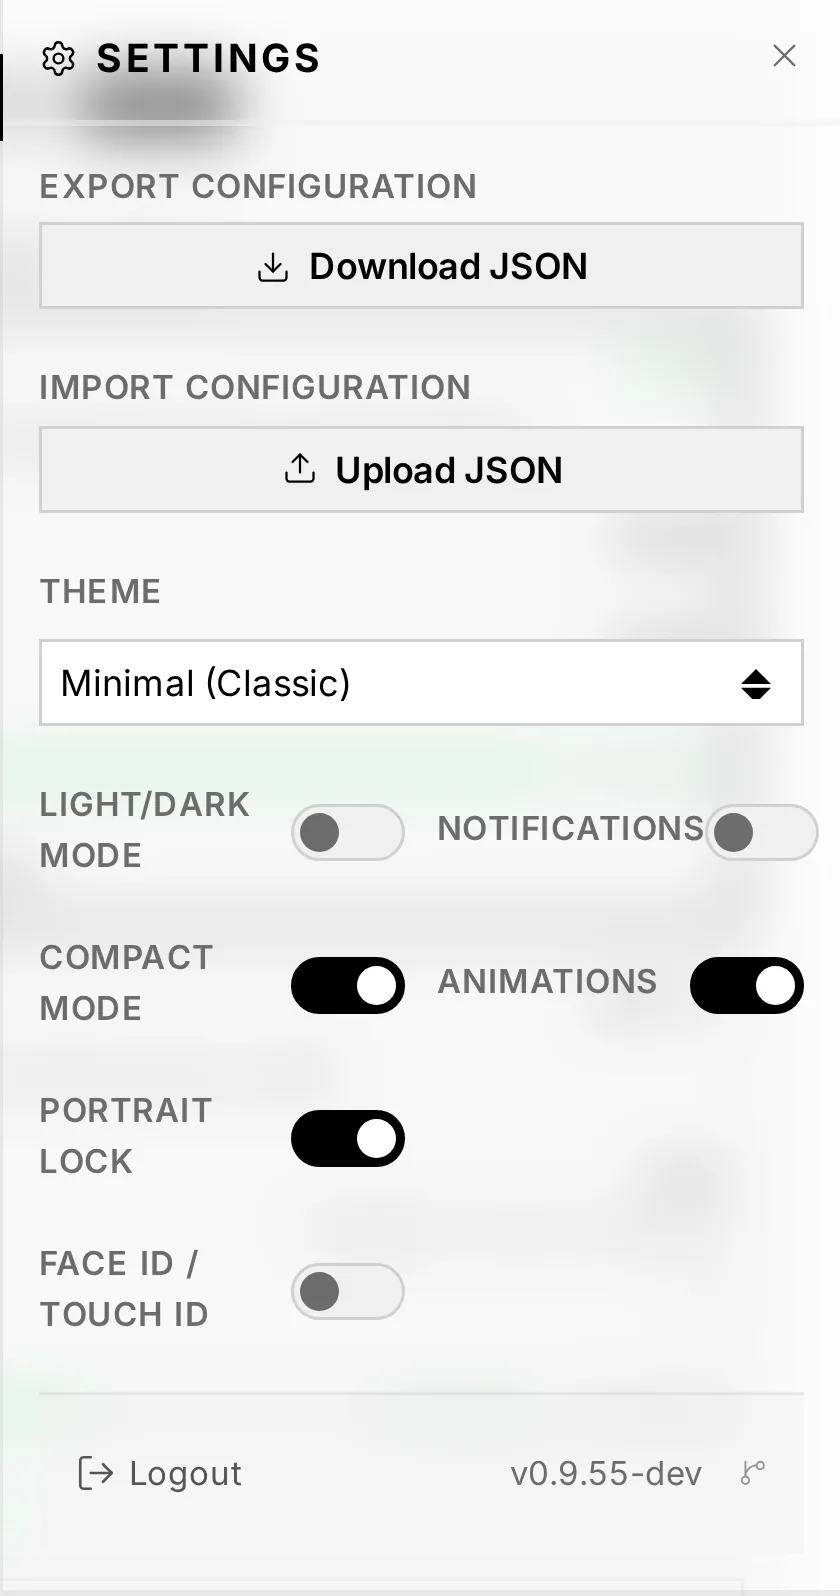
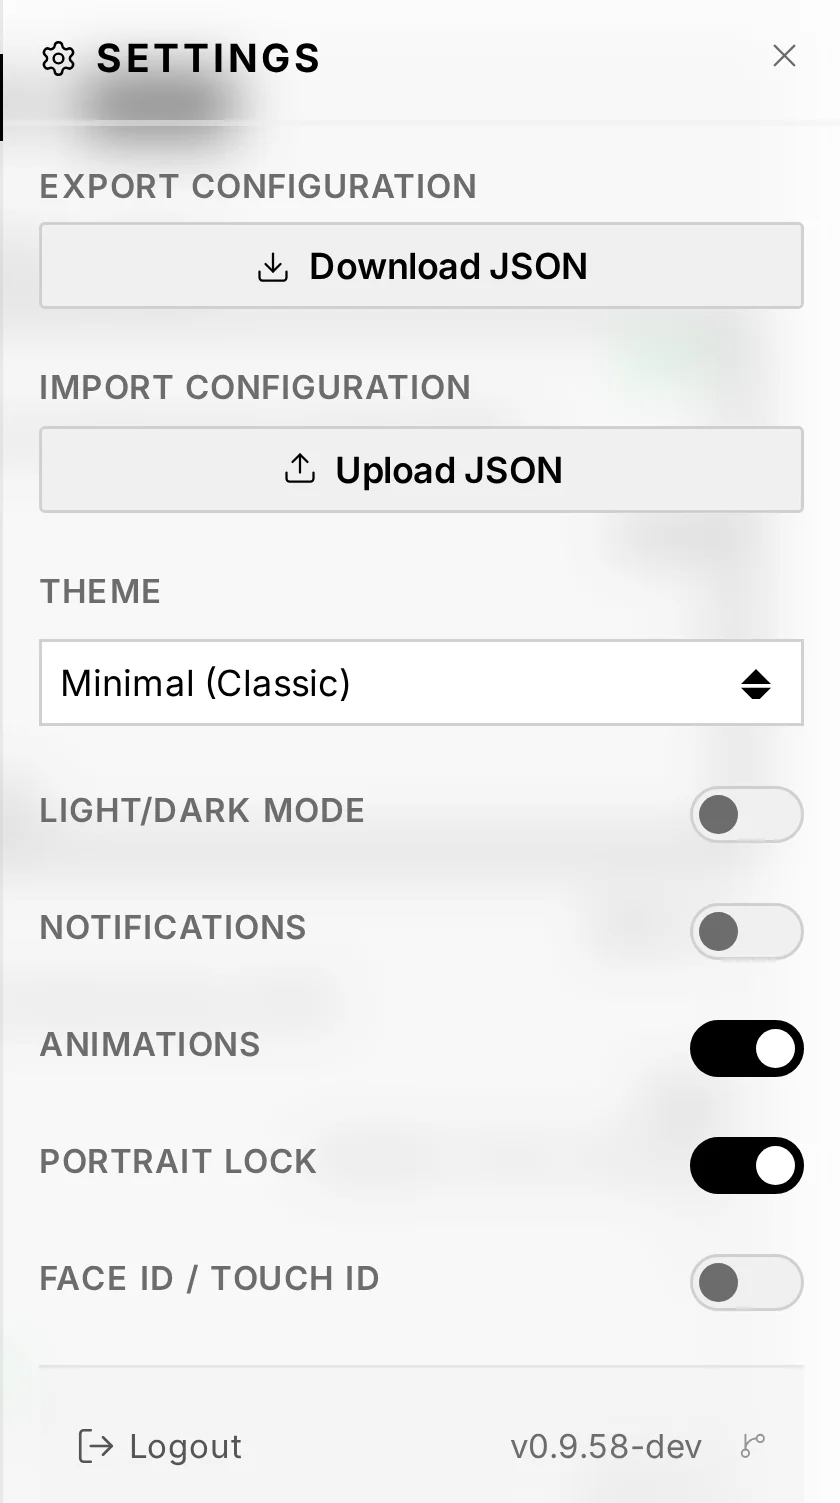
docs: record the removal of the compact-mode setting
CHANGELOG and RELEASE_NOTES for the flattening, including the sign-in page,
which is deliberately kept as it was rather than following the interface.

The Administration chapter stops offering a switch the drawer no longer holds,
and its picture was retaken at 375x812 @3x against a running box.

diff --git a/docs/manual/07-administration.html b/docs/manual/07-administration.html
@@ -90,15 +90,15 @@ sign-in screen, so the choice can be made before signing in (see
 <a href="03-first-run#2-sign-in--and-secure-your-account">3. First run</a>); the look itself is
 chosen here.</li>
 <li><strong>Notifications</strong> — subscribe this device to <strong>push notifications</strong> (see below).</li>
-<li><strong>Compact Mode</strong> — a denser layout. <strong>Animations</strong> — turns UI motion off
-(functional loading spinners keep animating so an operation never looks stuck).</li>
+<li><strong>Animations</strong> — turns UI motion off (functional loading spinners keep animating so
+an operation never looks stuck).</li>
 <li><strong>Portrait Lock</strong> — phones and tablets only; see
 <a href="04-listening#portrait-lock">4. Listening</a>.</li>
 <li><strong>Face ID / Touch ID</strong> — register this device as a <strong>passkey</strong> in one tap; each
 registered device appears as a chip you can remove individually. (These are the
 same credentials as the <em>Passkeys</em> button on your user card above.)</li>
 </ul>
-<img loading="lazy" src="images/ios-settings.webp" alt="The Settings panel: configuration export/import, theme, the display and notification toggles, portrait lock and Face ID / Touch ID" width="360">
+<img loading="lazy" src="images/ios-settings.webp" alt="The Settings panel: configuration export/import, theme, and one toggle per row — light/dark mode, notifications, animations, portrait lock and Face ID / Touch ID" width="360">
 <h3 id="push-notifications">Push notifications</h3>
 <p>With <strong>Notifications</strong> on, the box sends this device a system notification when
 something needs attention — even with the app closed:</p>

diff --git a/CHANGELOG.md b/CHANGELOG.md
@@ -9,6 +9,10 @@ and this landing) are documented here. Format based on
 
 ## [Unreleased]
 
+### Changed
+- **[ui] The Compact Mode switch is gone; the interface keeps the density it has always shown.** The switch was on from the very first launch and the only thing turning it off did was make everything larger — a second layout nobody asked for, carried through 31 rules and every screen of the interface. Those rules are now simply what the interface is: the spacing steps read 4/6/12/18/24 px and the type steps 12/13/14 px where three names were being substituted underneath. Nothing moves on screen, except in two places. The **settings drawer** gives each switch a full-width row — light/dark mode, notifications, animations, portrait lock and Face ID / Touch ID were paired two to a line, each label squeezed into half the width beside its switch. And a **service tile that starts, or a profile that becomes active**, no longer shifts its contents by a pixel as its border thickens: the second border pixel is taken out of the padding, as the processor tile beside it already did. The **sign-in page** is deliberately left untouched: it is the one screen the setting never reached, so it had been drawing the larger layout alone, and following the interface would have shrunk it by itself (its card 558 → 460 px on a computer, 536 → 445 px on a phone). It now states the steps it used to inherit, and is pixel-identical — checked over every element it holds, at both sizes. Verified the same way across ten tabs on a computer and a phone: no other difference.
+- **[manual] The Administration chapter stops offering a switch that no longer exists.** *Compact Mode* was listed among the settings and the drawer's picture showed it; the picture has been retaken and the list now describes what the drawer holds.
+
 ## [0.9.57] - 2026-09-19
 
 ### Changed

diff --git a/docs/manual/07-administration.md b/docs/manual/07-administration.md
@@ -47,15 +47,15 @@ The **gear** in the top bar opens the app-wide Settings panel:
   [3. First run](03-first-run.md#2-sign-in--and-secure-your-account)); the look itself is
   chosen here.
 - **Notifications** — subscribe this device to **push notifications** (see below).
-- **Compact Mode** — a denser layout. **Animations** — turns UI motion off
-  (functional loading spinners keep animating so an operation never looks stuck).
+- **Animations** — turns UI motion off (functional loading spinners keep animating so
+  an operation never looks stuck).
 - **Portrait Lock** — phones and tablets only; see
   [4. Listening](04-listening.md#portrait-lock).
 - **Face ID / Touch ID** — register this device as a **passkey** in one tap; each
   registered device appears as a chip you can remove individually. (These are the
   same credentials as the *Passkeys* button on your user card above.)
 
-<img src="images/ios-settings.webp" alt="The Settings panel: configuration export/import, theme, the display and notification toggles, portrait lock and Face ID / Touch ID" width="360">
+<img src="images/ios-settings.webp" alt="The Settings panel: configuration export/import, theme, and one toggle per row — light/dark mode, notifications, animations, portrait lock and Face ID / Touch ID" width="360">
 
 ### Push notifications
 

diff --git a/RELEASE_NOTES.md b/RELEASE_NOTES.md
@@ -7,7 +7,25 @@ Synthesized overview of each release. For the full line-by-line changelog, see
 
 ## Unreleased
 
-_Nothing yet._
+### One less switch in the settings
+
+Audiogravi<sup>ty</sup> shipped with a **Compact Mode** switch that was already on the first
+time you opened the interface. Turning it off made everything larger — a second layout that
+existed only to be left behind, and that every screen had to carry. It is gone, and what you
+have been looking at all along is now simply what the interface is.
+
+Nothing moves on screen, with two exceptions:
+
+- **The settings drawer** gives each switch a line of its own. Light/dark mode, notifications,
+  animations, portrait lock and Face ID / Touch ID used to sit two to a row, each label
+  squeezed into half the width beside its switch.
+- **A service that starts, or a profile you activate**, no longer nudges its tile's contents
+  by a pixel while its border thickens.
+
+The sign-in screen is the one place that kept its own layout. It never loaded the setting, so
+it had been drawing the larger one on its own, and simply following the interface would have
+shrunk it while nothing around it changed. It now holds those steps itself and looks exactly
+as it did.
 
 ---
 
